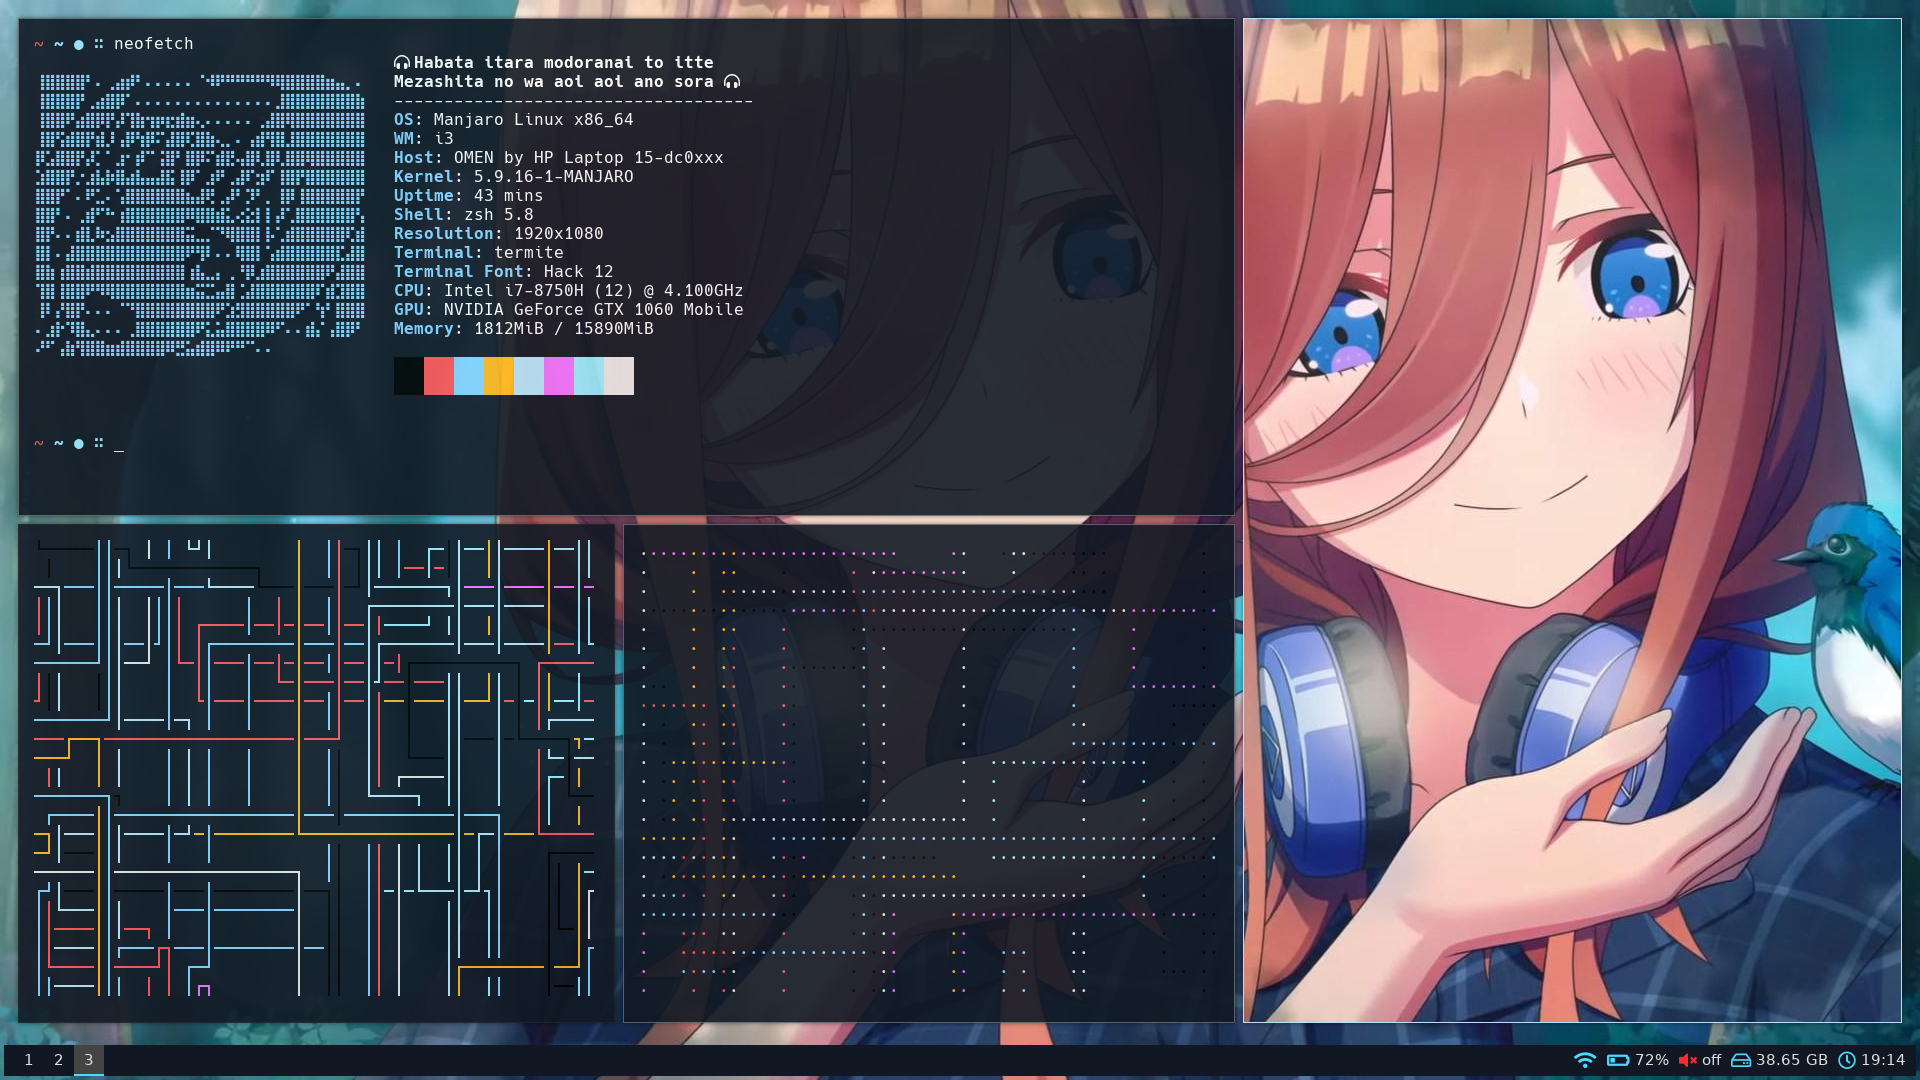
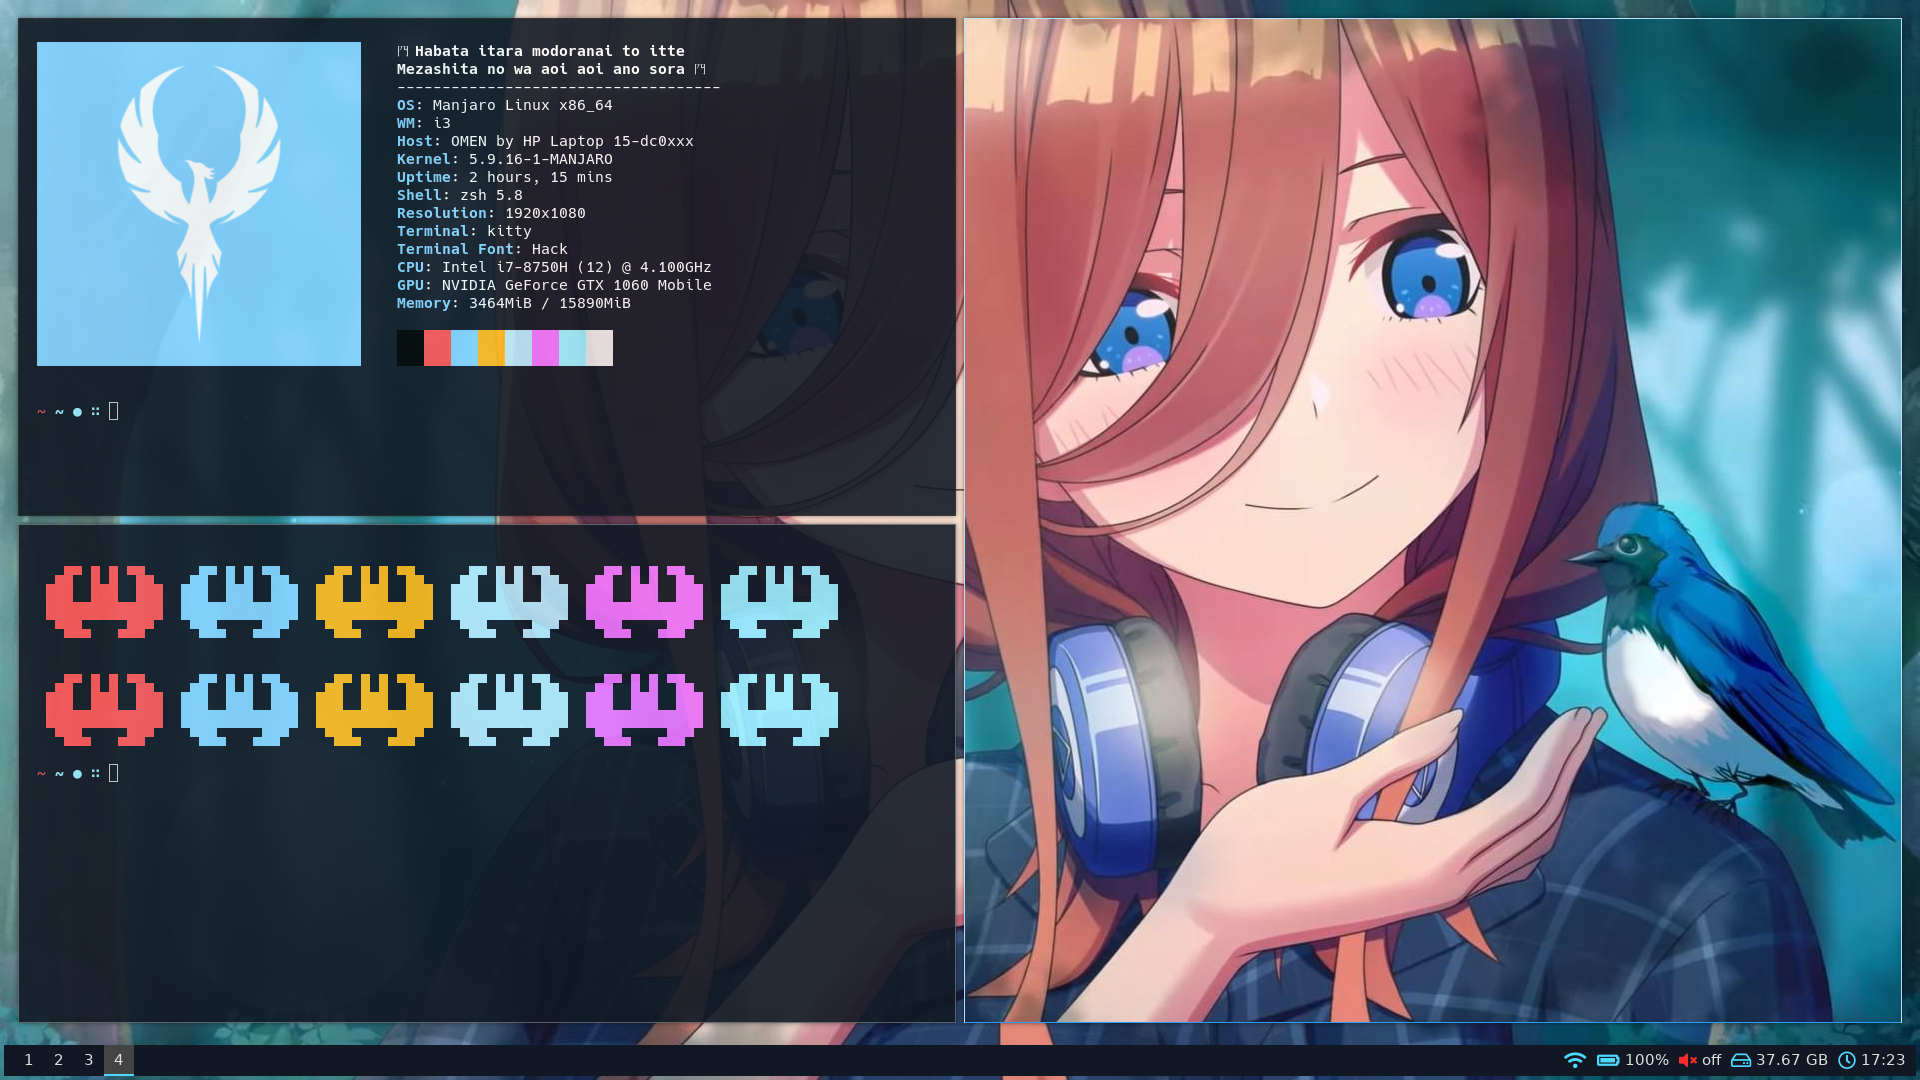
Kitty is now my best friend

diff --git a/README.md b/README.md
@@ -5,7 +5,7 @@ Here are some details about my setup:
 - **OS:** Manjaro
 - **WM:** i3-gaps
 - **Bar:** Polybar 
-- **Terminal:** Termite
+- **Terminal:** Kitty
 - **Shell**: ZSH 5.8
 - **Program Launcher:** Rofi 
 
